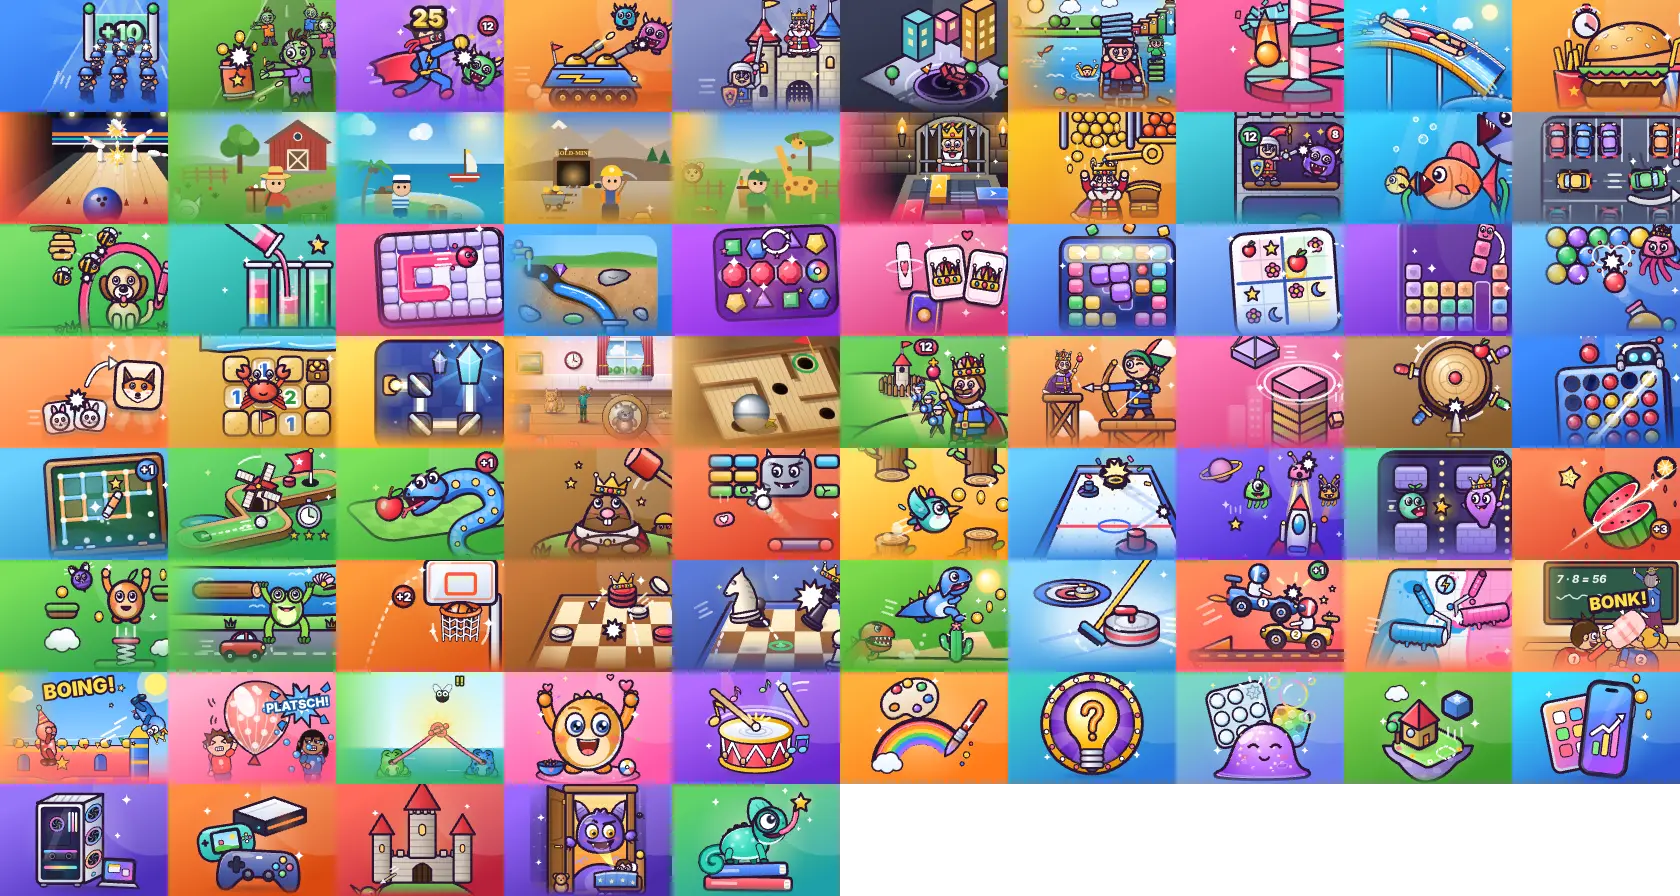
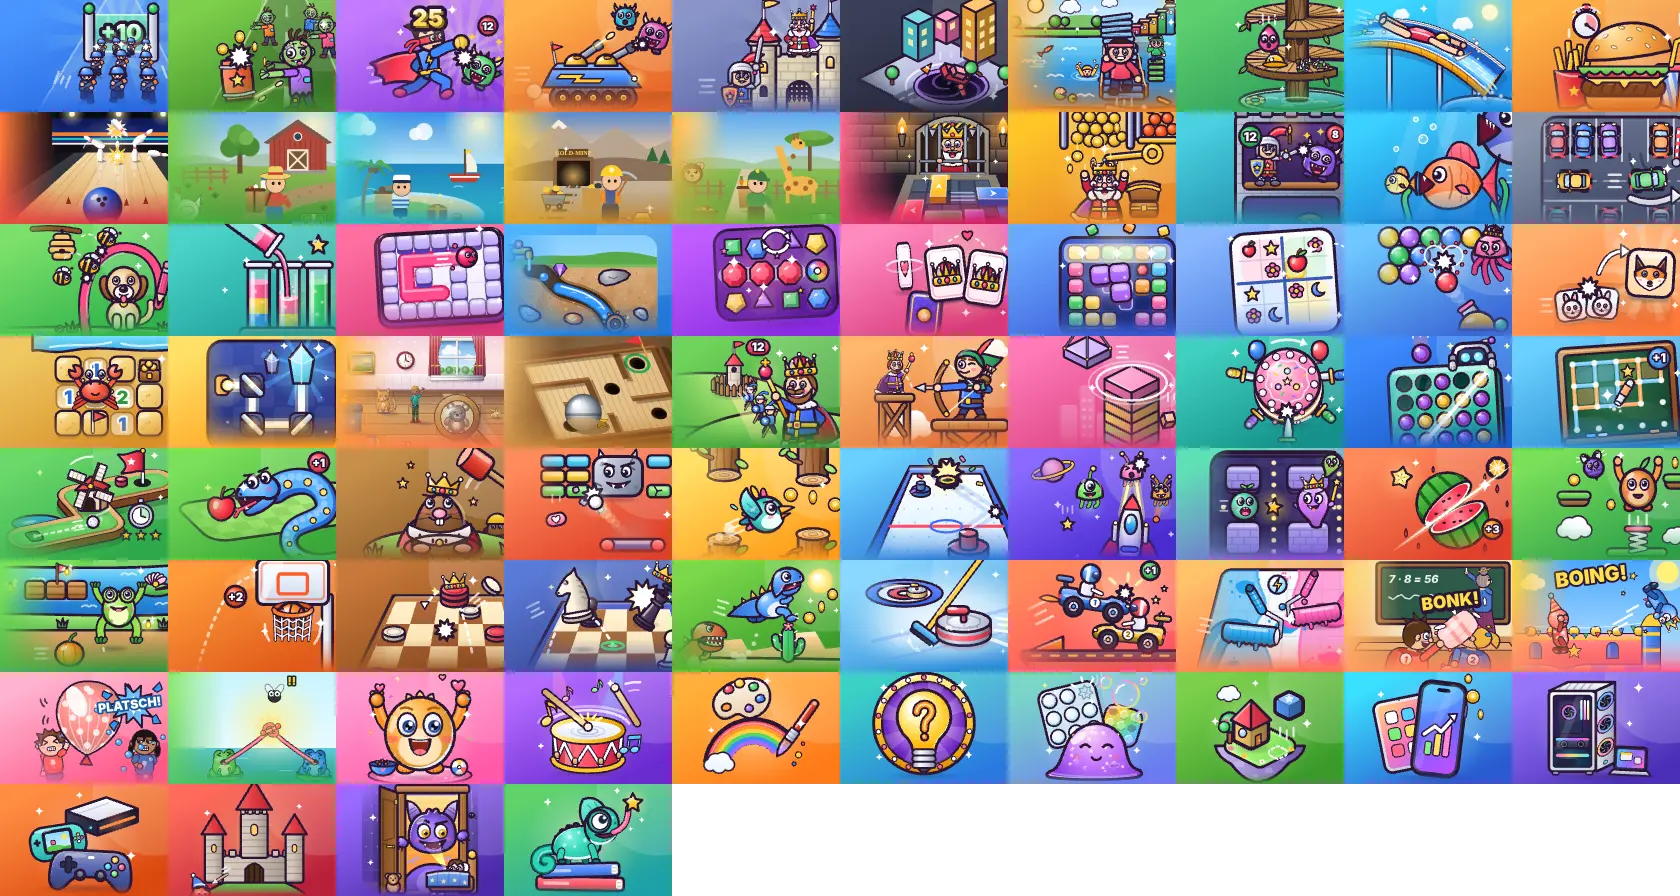
Zockwerk: neue Kachel-Bilder (62 Spiele), neue Spielnamen
Claude-Session: https://claude.ai/code/session_01G3KNfGniXS6at168NqcQ3M

diff --git a/zockwerk/daten/beitraege.js b/zockwerk/daten/beitraege.js
@@ -38,12 +38,12 @@ ZH.posts = [
     de: { t: 'Spiegel-Licht in echtem 3D, ein echter Dino und leichteres Luft-Hockey',
       x: 'Vier Spiele sind besser geworden – so, wie ihr es euch gewünscht habt.\n\n- **Spiegel-Licht:** jetzt echtes 3D – ein Raum mit Steinboden, Wänden und Säulen, glänzende Spiegel, die sich beim Antippen weich drehen, und ein Lichtstrahl, der leuchtet, glitzert und durch den Raum läuft. Kristalle drehen sich und funkeln, der Boss hat einen roten und einen blauen Strahl, und es gibt **18 Räume** zum Freischalten\n- **Dino-Lauf:** dein Dino sieht jetzt aus wie ein echter Dino – großer Kopf mit Zähnchen, kurze Ärmchen, kräftige Beine, langer Schwanz und Zacken. Dino, Kakteen, Felsen, Flugsaurier und Münzen sind viel größer und besser zu sehen – Zeit zum Springen hast du genauso viel wie vorher\n- **Luft-Hockey:** „Leicht“ ist jetzt wirklich leicht, „Mittel“ liegt zwischen Leicht und Schwer – und der Puck rutscht nicht mehr durch deinen Schläger\n- **Turm-Stapler:** alle 10 Welten sind viel schöner – Stadtpark mit Enten, Oasen in der Wüste, Koi-Teich, zugefrorener See mit Pinguinen, Wasserfall im Dschungel, Lava-Ströme, Hafen mit Delfinen und vieles mehr' },
     en: { t: 'Mirror Light in real 3D, a real dino and an easier Air Hockey',
-      x: 'Four games got better – just the way you wanted.\n\n- **Mirror Light:** real 3D now – a room with a stone floor, walls and columns, shiny mirrors that turn smoothly when you tap them, and a light beam that glows, sparkles and runs through the room. Crystals turn and twinkle, the boss has a red and a blue beam, and there are **18 rooms** to unlock\n- **Dino Run:** your dino looks like a real dino now – big head with teeth, tiny arms, strong legs, long tail and spikes. The dino, cacti, rocks, flying dinos and coins are much bigger and easier to see – you still get just as much time to jump\n- **Air Hockey:** Easy is really easy now, Medium sits between Easy and Hard – and the puck no longer slips through your paddle\n- **Tower Stacker:** all 10 worlds are much prettier – a city park with ducks, desert oases, a koi pond, a frozen lake with penguins, a jungle waterfall, lava rivers, a harbor with dolphins and lots more' } },
+      x: 'Four games got better – just the way you wanted.\n\n- **Mirror Light:** real 3D now – a room with a stone floor, walls and columns, shiny mirrors that turn smoothly when you tap them, and a light beam that glows, sparkles and runs through the room. Crystals turn and twinkle, the boss has a red and a blue beam, and there are **18 rooms** to unlock\n- **Dino Dodge:** your dino looks like a real dino now – big head with teeth, tiny arms, strong legs, long tail and spikes. The dino, cacti, rocks, flying dinos and coins are much bigger and easier to see – you still get just as much time to jump\n- **Air Hockey:** Easy is really easy now, Medium sits between Easy and Hard – and the puck no longer slips through your paddle\n- **Tower Stacker:** all 10 worlds are much prettier – a city park with ducks, desert oases, a koi pond, a frozen lake with penguins, a jungle waterfall, lava rivers, a harbor with dolphins and lots more' } },
   { id: 'b18', d: '2026-11-12', k: 'neu', ic: 'star',
-    de: { t: 'Flatter-Vogel, Korb-Wurf und Bogen-Duell in echtem 3D',
-      x: 'Drei weitere Spiele sind jetzt echtes 3D.\n\n- **Flatter-Vogel:** du fliegst durch 11 Welten mit Tieren, Vögeln und Pflanzen – alle 3 Level eine neue, im Endlos-Modus alle 20 Lücken. Der Boss ist ein Sturm mit Blitzen, im Winterland ein Schneesturm\n- **Schönere Vögel:** echte Flügel mit Federn, die beim Schlagen einklappen, dazu Schwanzfächer und Füßchen. Jetzt 24 Vögel – Ente, Flamingo, Tukan, Pfau, Kolibri und viele, die leuchten, funkeln oder Feuer speien\n- **Korb-Wurf:** ein echter Spielplatz mit schwingendem Netz, der Korb fährt auf einer Schiene, der Block-Roboter ist eine fliegende Drohne. 22 Bälle und neu 12 Körbe\n- **Bogen-Duell:** Holztürme, Bogenschützen, die die Sehne ziehen, wackeln und herunterfallen, Pulverfässer mit Feuerball und eine lila Burg für den Boss. 22 Pfeile\n\nDie Regeln und deine Level bleiben gleich – auch deine alten Aussehen.' },
-    en: { t: 'Flutter Bird, Hoop Shot and Bow Duel in real 3D',
-      x: 'Three more games are real 3D now.\n\n- **Flutter Bird:** you fly through 11 worlds with animals, birds and plants – a new one every 3 levels, in Endless every 20 gaps. The boss is a storm with lightning, in Winter Land a snowstorm\n- **Nicer birds:** real wings with feathers that fold when they flap, plus a tail fan and little feet. Now 24 birds – duck, flamingo, toucan, peacock, hummingbird and many that glow, sparkle or breathe fire\n- **Hoop Shot:** a real court with a swinging net, the hoop rides along a rail, and the block robot is a flying drone. 22 balls and 12 new hoops\n- **Bow Duel:** wooden towers, archers that pull the string, wobble and fall, powder kegs with a fireball and a purple castle for the boss. 22 arrows\n\nThe rules and your levels stay the same – and so do your old looks.' } },
+    de: { t: 'Feder-Flug, Korb-Wurf und Bogen-Duell in echtem 3D',
+      x: 'Drei weitere Spiele sind jetzt echtes 3D.\n\n- **Feder-Flug:** du fliegst durch 11 Welten mit Tieren, Vögeln und Pflanzen – alle 3 Level eine neue, im Endlos-Modus alle 20 Lücken. Der Boss ist ein Sturm mit Blitzen, im Winterland ein Schneesturm\n- **Schönere Vögel:** echte Flügel mit Federn, die beim Schlagen einklappen, dazu Schwanzfächer und Füßchen. Jetzt 24 Vögel – Ente, Flamingo, Tukan, Pfau, Kolibri und viele, die leuchten, funkeln oder Feuer speien\n- **Korb-Wurf:** ein echter Spielplatz mit schwingendem Netz, der Korb fährt auf einer Schiene, der Block-Roboter ist eine fliegende Drohne. 22 Bälle und neu 12 Körbe\n- **Bogen-Duell:** Holztürme, Bogenschützen, die die Sehne ziehen, wackeln und herunterfallen, Pulverfässer mit Feuerball und eine lila Burg für den Boss. 22 Pfeile\n\nDie Regeln und deine Level bleiben gleich – auch deine alten Aussehen.' },
+    en: { t: 'Feather Flight, Hoop Shot and Bow Duel in real 3D',
+      x: 'Three more games are real 3D now.\n\n- **Feather Flight:** you fly through 11 worlds with animals, birds and plants – a new one every 3 levels, in Endless every 20 gaps. The boss is a storm with lightning, in Winter Land a snowstorm\n- **Nicer birds:** real wings with feathers that fold when they flap, plus a tail fan and little feet. Now 24 birds – duck, flamingo, toucan, peacock, hummingbird and many that glow, sparkle or breathe fire\n- **Hoop Shot:** a real court with a swinging net, the hoop rides along a rail, and the block robot is a flying drone. 22 balls and 12 new hoops\n- **Bow Duel:** wooden towers, archers that pull the string, wobble and fall, powder kegs with a fireball and a purple castle for the boss. 22 arrows\n\nThe rules and your levels stay the same – and so do your old looks.' } },
   { id: 'b17', d: '2026-11-11', k: 'neu', ic: 'star',
     de: { t: 'Schach und Luft-Hockey in echtem 3D – ohne Level',
       x: 'Zwei weitere Spiele sind jetzt echtes 3D – und statt Level wählst du einfach, wie stark der Computer ist.\n\n- **Ohne Level:** Leicht, Mittel, Schwer, Profi oder Meister. Das Menü zählt deine Partien je Stufe (gespielt, gewonnen, verloren – bei Schach auch Remis) und die Partien zu zweit\n- **Siegpunkte:** jeder Sieg gibt Münzen und Siegpunkte, schwerere Stufen mehr – damit schaltest du neue Aussehen frei. Was du schon hattest, bleibt frei\n- **Schach:** echte Schachfiguren – König mit Kreuz, Dame mit Krone, Turm mit Zinnen und ein Springer mit echtem Pferdekopf. Geschlagene Figuren fliegen im hohen Bogen davon, der König wackelt bei Schach und kippt beim Matt um. 20 Bretter und 24 Figuren-Sätze (Marmor, Glas, Neon, Lava, Roboter, Tiere, Geister, Diamant …)\n- **Luft-Hockey:** ein echter Tisch mit Luftlöchern, leuchtender Puck, Tore mit Torlicht, Funken bei harten Schüssen und eine Anzeigetafel – 20 Tische, 18 Schläger und 18 Pucks\n- beide Spiele stehen in den **Welten mit Tieren**, und viele Aussehen bewegen sich' },
@@ -52,8 +52,8 @@ ZH.posts = [
   { id: 'b16', d: '2026-11-11', k: 'neu', ic: 'star',
     de: { t: 'Dino-Lauf, Maulwurf-Hauen und Eis-Curling in echtem 3D',
       x: 'Drei weitere Spiele sind jetzt echtes 3D.\n\n- **Dino-Lauf:** der Dino läuft richtig auf seinen Beinen, springt, macht einen Salto und duckt sich, der T-Rex brüllt mit offenem Maul – und du läufst durch 11 Welten mit Tieren, alle 3 Level eine neue, im Endlos-Modus alle 400 m\n- **Maulwurf-Hauen:** ein Garten mit Erdlöchern – Maulwürfe und Hasen schauen heraus, sehen sich um und tauchen wieder ab, der Hammer schwingt mit Staub und Sternchen\n- **Eis-Curling:** glänzendes Eis, Steine mit Griffen gleiten und drehen sich, zwei Feger fegen richtig, die Eishalle ist voller Zuschauer und der zugefrorene See liegt im Winterland\n- **viele neue Aussehen:** 25 Dinos, 24 Hämmer, 8 Bahnen und 20 Curling-Steine, viele davon bewegen sich\n- Regeln, Level und dein Spielstand bleiben gleich' },
-    en: { t: 'Dino Run, Mole Bonk and Ice Curling in real 3D',
-      x: 'Three more games are real 3D now.\n\n- **Dino Run:** the dino really runs on its legs, jumps, does a flip and ducks, the T-Rex roars with its mouth wide open – and you run through 11 worlds with animals, a new one every 3 levels, in Endless every 400 m\n- **Mole Bonk:** a garden with dirt holes – moles and bunnies peek out, look around and dive back down, and the hammer swings down with dust and stars\n- **Ice Curling:** shiny ice, stones with handles glide and spin, two sweepers really sweep, the ice rink is full of fans and the frozen lake lies in the Winter Land\n- **lots of new looks:** 25 dinos, 24 hammers, 8 rinks and 20 curling stones, many of them move\n- rules, levels and your progress stay the same' } },
+    en: { t: 'Dino Dodge, Mole Bonk and Ice Curling in real 3D',
+      x: 'Three more games are real 3D now.\n\n- **Dino Dodge:** the dino really runs on its legs, jumps, does a flip and ducks, the T-Rex roars with its mouth wide open – and you run through 11 worlds with animals, a new one every 3 levels, in Endless every 400 m\n- **Mole Bonk:** a garden with dirt holes – moles and bunnies peek out, look around and dive back down, and the hammer swings down with dust and stars\n- **Ice Curling:** shiny ice, stones with handles glide and spin, two sweepers really sweep, the ice rink is full of fans and the frozen lake lies in the Winter Land\n- **lots of new looks:** 25 dinos, 24 hammers, 8 rinks and 20 curling stones, many of them move\n- rules, levels and your progress stay the same' } },
   { id: 'b15', d: '2026-11-11', k: 'neu', ic: 'star',
     de: { t: 'Drei Spiele in echtem 3D',
       x: 'Vier in Reihe, Kästchen-Kampf und Schlangen-Spaß sind jetzt echtes 3D.\n\n- **Vier in Reihe:** ein echtes Brett mit Löchern – der Stein fällt, hüpft und wackelt nach, beim Sieg leuchtet die Reihe\n- **Kästchen-Kampf:** das Brett liegt auf einer Decke, Striche wachsen mit Kreide und Stift, Kästchen klappen hoch und bekommen ein Gesicht\n- **Schlangen-Spaß:** die Schlange kriecht richtig, öffnet das Maul vor dem Obst und schaut ihm hinterher\n- **11 Welten mit Tieren:** Garten, Bauernhof, Strand, Herbstwald, Winterland, See, Dschungel, Oase, Süßigkeiten-Land, Glühwürmchen-Abend und Dino-Tal – alle 3 Level eine neue\n- **viele neue Aussehen:** 38 Steine, 16 Bretter, 22 Kästchen-Looks und 39 Schlangen, viele davon bewegen sich\n- Regeln, Level und dein Spielstand bleiben gleich' },

diff --git a/zockwerk/js/spiele.js b/zockwerk/js/spiele.js
@@ -1,5 +1,5 @@
 /* Zockwerk – Spiele und Bereiche aus Zockmix mit ihrem Platz im Bild img/kacheln.webp (10 Spalten, 8 Zeilen).
-   NICHT VON HAND ÄNDERN – wird von tools/kacheln.js erzeugt (Stand 2026-11-14, 63 Spiele).
+   NICHT VON HAND ÄNDERN – wird von tools/kacheln.js erzeugt (Stand 2026-11-16, 62 Spiele).
    games: [id, Deutsch, Englisch, Rubrik (action | knobel | strat), Bild-Nr.]   apps: [id, Deutsch, Englisch, Bild-Nr.] */
 window.ZHG = { cols: 10, rows: 8,
   games: [
@@ -7,10 +7,10 @@ window.ZHG = { cols: 10, rows: 8,
     ['zombie', 'Zombie-Abwehr', 'Zombie Defense', 'action', 1],
     ['hero', 'Power-Held', 'Power Hero', 'action', 2],
     ['car', 'Panzer-Rennen', 'Tank Race', 'action', 3],
-    ['castle', 'Burg-Sturm', 'Castle Storm', 'action', 4],
+    ['castle', 'Ritter-Pfad', 'Knight\'s Path', 'action', 4],
     ['hole', 'Stadt-Schlucker', 'City Gulper', 'action', 5],
     ['bridge', 'Bretter-Lauf', 'Plank Run', 'action', 6],
-    ['helix', 'Spiral-Sprung', 'Spiral Drop', 'action', 7],
+    ['helix', 'Plumps-Turm', 'Drop Tower', 'action', 7],
     ['slide', 'Rutschen-Rennen', 'Slide Race', 'action', 8],
     ['cook', 'Burger-Brutzler', 'Burger Sizzler', 'action', 9],
     ['bowl', 'Bowling-Bahn', 'Bowling Lane', 'action', 10],
@@ -19,8 +19,8 @@ window.ZHG = { cols: 10, rows: 8,
     ['mine', 'Gold-Mine', 'Gold Mine', 'action', 13],
     ['zoo', 'Tierpark', 'Animal Park', 'action', 14],
     ['blocks', 'Königs-Rettung', 'Royal Rescue', 'knobel', 15],
-    ['pins', 'Stifte ziehen', 'Pull the Pins', 'knobel', 16],
-    ['tower', 'Turm-Held', 'Tower Hero', 'knobel', 17],
+    ['pins', 'Schatz-Stifte', 'Treasure Pins', 'knobel', 16],
+    ['tower', 'Turm-Ritter', 'Tower Knight', 'knobel', 17],
     ['fish', 'Fisch-Fressen', 'Fish Feast', 'knobel', 18],
     ['parking', 'Parkplatz-Flucht', 'Parking Escape', 'knobel', 19],
     ['draw', 'Zeichnen & Retten', 'Draw & Save', 'knobel', 20],
@@ -31,54 +31,53 @@ window.ZHG = { cols: 10, rows: 8,
     ['memory', 'Memo-Meister', 'Memo Master', 'knobel', 25],
     ['bricks', 'Block-Puzzle', 'Block Puzzle', 'knobel', 26],
     ['sudoku', 'Bilder-Sudoku', 'Picture Sudoku', 'knobel', 27],
-    ['falling', 'Klötzchen-Fall', 'Block Drop', 'knobel', 28],
-    ['bubble', 'Blasen-Schießen', 'Bubble Shooter', 'knobel', 29],
-    ['merge', 'Tier-Verschmelzen', 'Animal Merge', 'knobel', 30],
-    ['dig', 'Schatzsuche', 'Treasure Dig', 'knobel', 31],
-    ['mirror', 'Spiegel-Licht', 'Mirror Light', 'knobel', 32],
-    ['seek', 'Wimmel-Suche', 'Picture Hunt', 'knobel', 33],
-    ['maze', 'Kugel-Labyrinth', 'Marble Maze', 'knobel', 34],
-    ['lords', 'Burgen-Krieg', 'Castle Conquest', 'strat', 35],
-    ['archer', 'Bogen-Duell', 'Bow Duel', 'strat', 36],
-    ['stack', 'Turm-Stapler', 'Tower Stacker', 'strat', 37],
-    ['knife', 'Klingen-Wurf', 'Blade Throw', 'strat', 38],
-    ['connect', 'Vier in Reihe', 'Four in a Row', 'strat', 39],
-    ['boxes', 'Kästchen-Kampf', 'Box Battle', 'strat', 40],
-    ['golf', 'Mini-Golf', 'Mini Golf', 'strat', 41],
-    ['snake', 'Schlangen-Spaß', 'Snake Fun', 'strat', 42],
-    ['mole', 'Maulwurf-Hauen', 'Mole Bonk', 'strat', 43],
-    ['breakout', 'Stein-Brecher', 'Stone Smasher', 'strat', 44],
-    ['flappy', 'Flatter-Vogel', 'Flutter Bird', 'strat', 45],
-    ['hockey', 'Luft-Hockey', 'Air Hockey', 'strat', 46],
-    ['space', 'Weltraum-Abwehr', 'Space Defense', 'strat', 47],
-    ['pac', 'Geister-Labyrinth', 'Ghost Maze', 'strat', 48],
-    ['slice', 'Obst-Schnitt', 'Fruit Slice', 'strat', 49],
-    ['jump', 'Hüpf-Hoch', 'Hop Up', 'strat', 50],
-    ['frog', 'Frosch-Hüpfer', 'Frog Hopper', 'strat', 51],
-    ['hoops', 'Korb-Wurf', 'Hoop Shot', 'strat', 52],
-    ['checkers', 'Dame', 'Checkers', 'strat', 53],
-    ['chess', 'Schach', 'Chess', 'strat', 54],
-    ['runner', 'Dino-Lauf', 'Dino Run', 'strat', 55],
-    ['curling', 'Eis-Curling', 'Ice Curling', 'strat', 56],
-    ['crash', 'Car Crash', 'Car Crash', 'strat', 57],
-    ['paint', 'Farbkampf', 'Paint Battle', 'strat', 58],
-    ['sneak', 'Heimlich-Hauen', 'Sneaky Bonk', 'strat', 59],
-    ['bounce', 'Hüpfburg-Rangelei', 'Bouncy Brawl', 'strat', 60],
-    ['balloon', 'Ballon-Mut', 'Balloon Dare', 'strat', 61],
-    ['tongue', 'Zungen-Knoten', 'Tongue Tangle', 'strat', 62]
+    ['bubble', 'Blasen-Schießen', 'Pop the Bubbles', 'knobel', 28],
+    ['merge', 'Tier-Verschmelzen', 'Animal Merge', 'knobel', 29],
+    ['dig', 'Schatzsuche', 'Treasure Dig', 'knobel', 30],
+    ['mirror', 'Spiegel-Licht', 'Mirror Light', 'knobel', 31],
+    ['seek', 'Wimmel-Suche', 'Picture Hunt', 'knobel', 32],
+    ['maze', 'Kugel-Labyrinth', 'Marble Maze', 'knobel', 33],
+    ['lords', 'Burgen-Krieg', 'Castle Conquest', 'strat', 34],
+    ['archer', 'Bogen-Duell', 'Bow Duel', 'strat', 35],
+    ['stack', 'Turm-Stapler', 'Tower Stacker', 'strat', 36],
+    ['knife', 'Klingen-Wurf', 'Blade Throw', 'strat', 37],
+    ['connect', 'Vier in Reihe', 'Four in a Row', 'strat', 38],
+    ['boxes', 'Kästchen-Kampf', 'Box Battle', 'strat', 39],
+    ['golf', 'Mini-Golf', 'Mini Golf', 'strat', 40],
+    ['snake', 'Schlangen-Spaß', 'Snake Fun', 'strat', 41],
+    ['mole', 'Maulwurf-Hauen', 'Mole Bonk', 'strat', 42],
+    ['breakout', 'Stein-Brecher', 'Stone Smasher', 'strat', 43],
+    ['flappy', 'Feder-Flug', 'Feather Flight', 'strat', 44],
+    ['hockey', 'Luft-Hockey', 'Air Hockey', 'strat', 45],
+    ['space', 'Weltraum-Abwehr', 'Space Defense', 'strat', 46],
+    ['pac', 'Geister-Labyrinth', 'Ghost Maze', 'strat', 47],
+    ['slice', 'Obst-Schnitt', 'Fruit Slice', 'strat', 48],
+    ['jump', 'Hüpf-Hoch', 'Hop Up', 'strat', 49],
+    ['frog', 'Frosch-Hüpfer', 'Frog Hopper', 'strat', 50],
+    ['hoops', 'Korb-Wurf', 'Hoop Shot', 'strat', 51],
+    ['checkers', 'Dame', 'Checkers', 'strat', 52],
+    ['chess', 'Schach', 'Chess', 'strat', 53],
+    ['runner', 'Dino-Lauf', 'Dino Dodge', 'strat', 54],
+    ['curling', 'Eis-Curling', 'Ice Curling', 'strat', 55],
+    ['crash', 'Car Crash', 'Car Crash', 'strat', 56],
+    ['paint', 'Farbkampf', 'Paint Battle', 'strat', 57],
+    ['sneak', 'Heimlich-Hauen', 'Sneaky Bonk', 'strat', 58],
+    ['bounce', 'Hüpfburg-Rangelei', 'Bouncy Brawl', 'strat', 59],
+    ['balloon', 'Ballon-Mut', 'Balloon Dare', 'strat', 60],
+    ['tongue', 'Zungen-Knoten', 'Tongue Tangle', 'strat', 61]
   ],
   apps: [
-    ['zocki', 'Zocki', 'Zocki', 63],
-    ['beatmix', 'Beatmix', 'Beatmix', 64],
-    ['malmix', 'Malmix', 'Malmix', 65],
-    ['quizmix', 'Quizmix', 'Quizmix', 66],
-    ['chillmix', 'Chillmix', 'Chillmix', 67],
-    ['baumix', 'Baumix', 'Baumix', 68],
-    ['handysim', 'Handy-Simulator', 'Phone Simulator', 69],
-    ['pcsim', 'PC-Simulator', 'PC Simulator', 70],
-    ['konsolensim', 'Konsolen-Simulator', 'Console Simulator', 71],
-    ['burg', 'Burg-Wächter', 'Castle Guard', 72],
-    ['spukmix', 'Spukmix', 'Spukmix', 73],
-    ['lernmix', 'Lernmix', 'Lernmix', 74]
+    ['zocki', 'Zocki', 'Zocki', 62],
+    ['beatmix', 'Beatmix', 'Beatmix', 63],
+    ['malmix', 'Malmix', 'Malmix', 64],
+    ['quizmix', 'Quizmix', 'Quizmix', 65],
+    ['chillmix', 'Chillmix', 'Chillmix', 66],
+    ['baumix', 'Baumix', 'Baumix', 67],
+    ['handysim', 'Handy-Simulator', 'Phone Simulator', 68],
+    ['pcsim', 'PC-Simulator', 'PC Simulator', 69],
+    ['konsolensim', 'Konsolen-Simulator', 'Console Simulator', 70],
+    ['burg', 'Burg-Wächter', 'Castle Guard', 71],
+    ['spukmix', 'Spukmix', 'Spukmix', 72],
+    ['lernmix', 'Lernmix', 'Lernmix', 73]
   ]
 };

diff --git a/zockwerk/sw.js b/zockwerk/sw.js
@@ -3,7 +3,7 @@
    Wichtig (13.11.2026): Das Netz wird mit cache: 'no-cache' gefragt – sonst liefert der Browser bis zu 10 Minuten lang die alte Datei
    aus seinem eigenen Zwischenspeicher (GitHub Pages erlaubt 10 Minuten), und die als App installierte Seite zeigt noch die alte Fassung.
    Der Server antwortet bei unveränderten Dateien nur kurz „unverändert“ (304), das kostet kaum Daten. */
-const VER = 'zmh-10';
+const VER = 'zmh-11';
 const FILES = ['./', 'index.html', 'css/app.css', 'js/icons.js', 'js/code.js', 'js/spiele.js', 'js/app.js', 'daten/beitraege.js', 'daten/fehler.js', 'daten/ideen.js',
   'daten/fragen.js', 'daten/helfer.js', 'daten/artikel.js', 'manifest.webmanifest', 'img/kacheln.webp', 'img/icon-192.png', 'img/icon-512.png'];
 self.addEventListener('install', e => {
